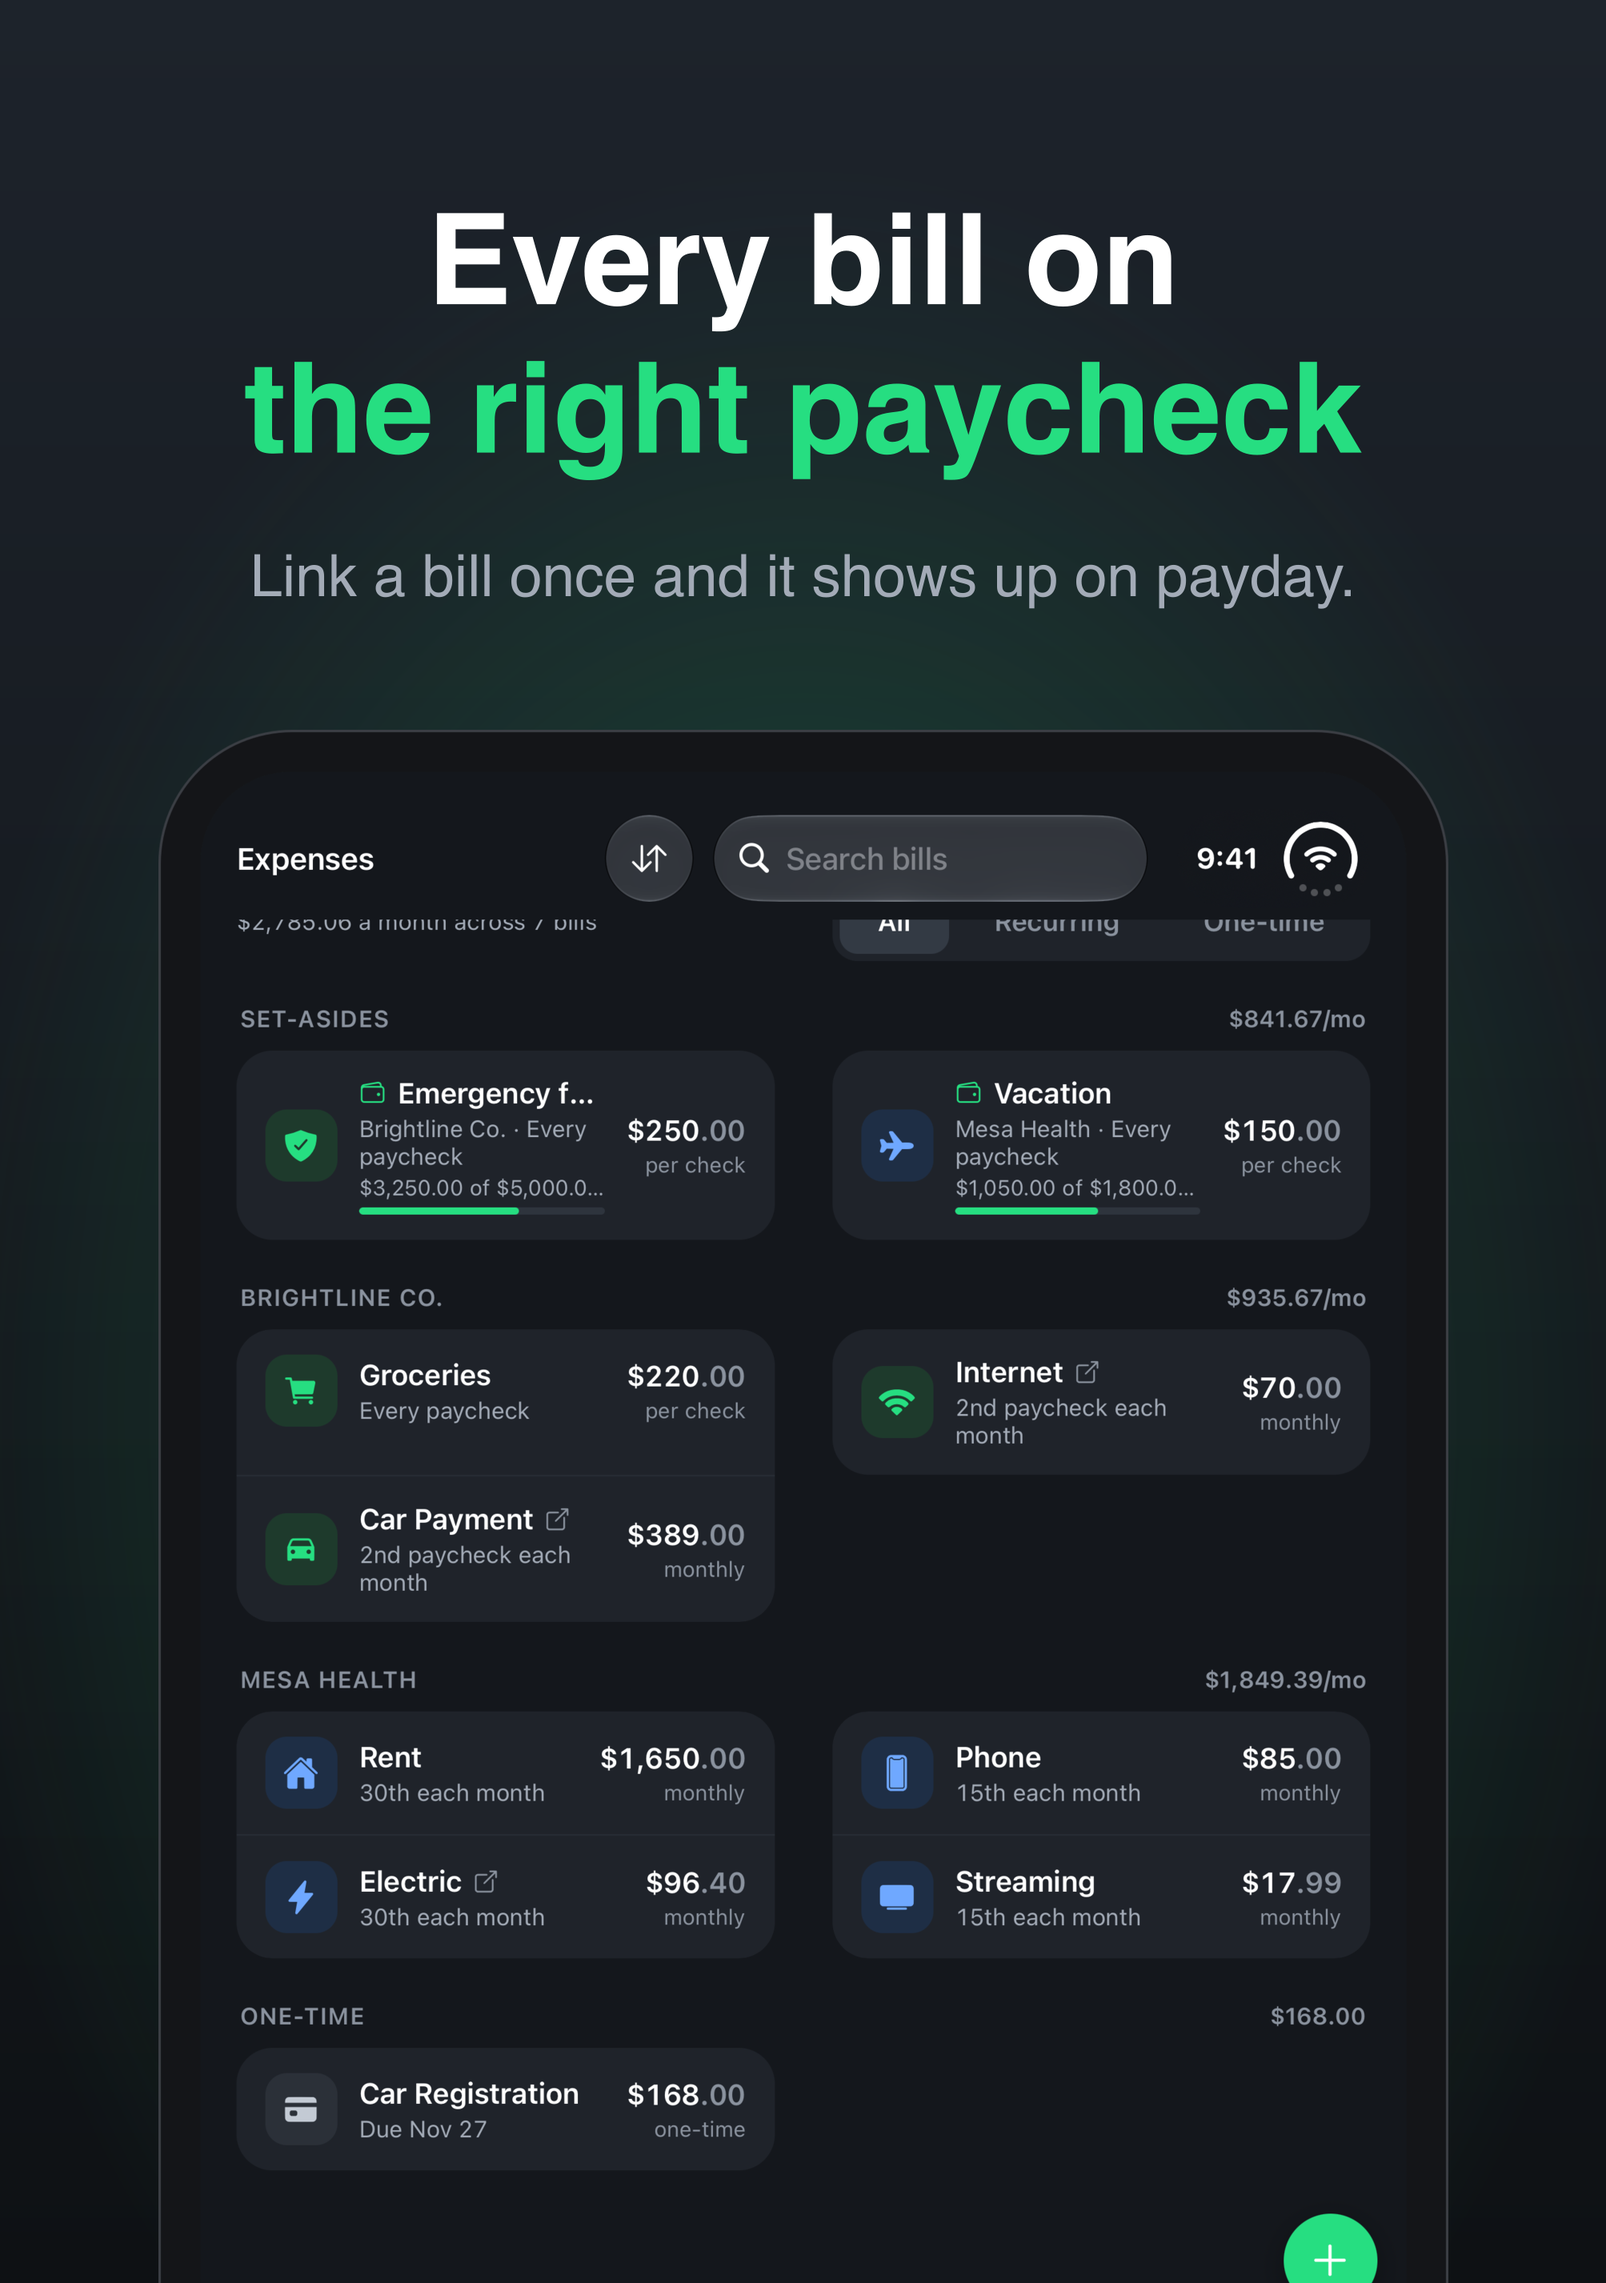
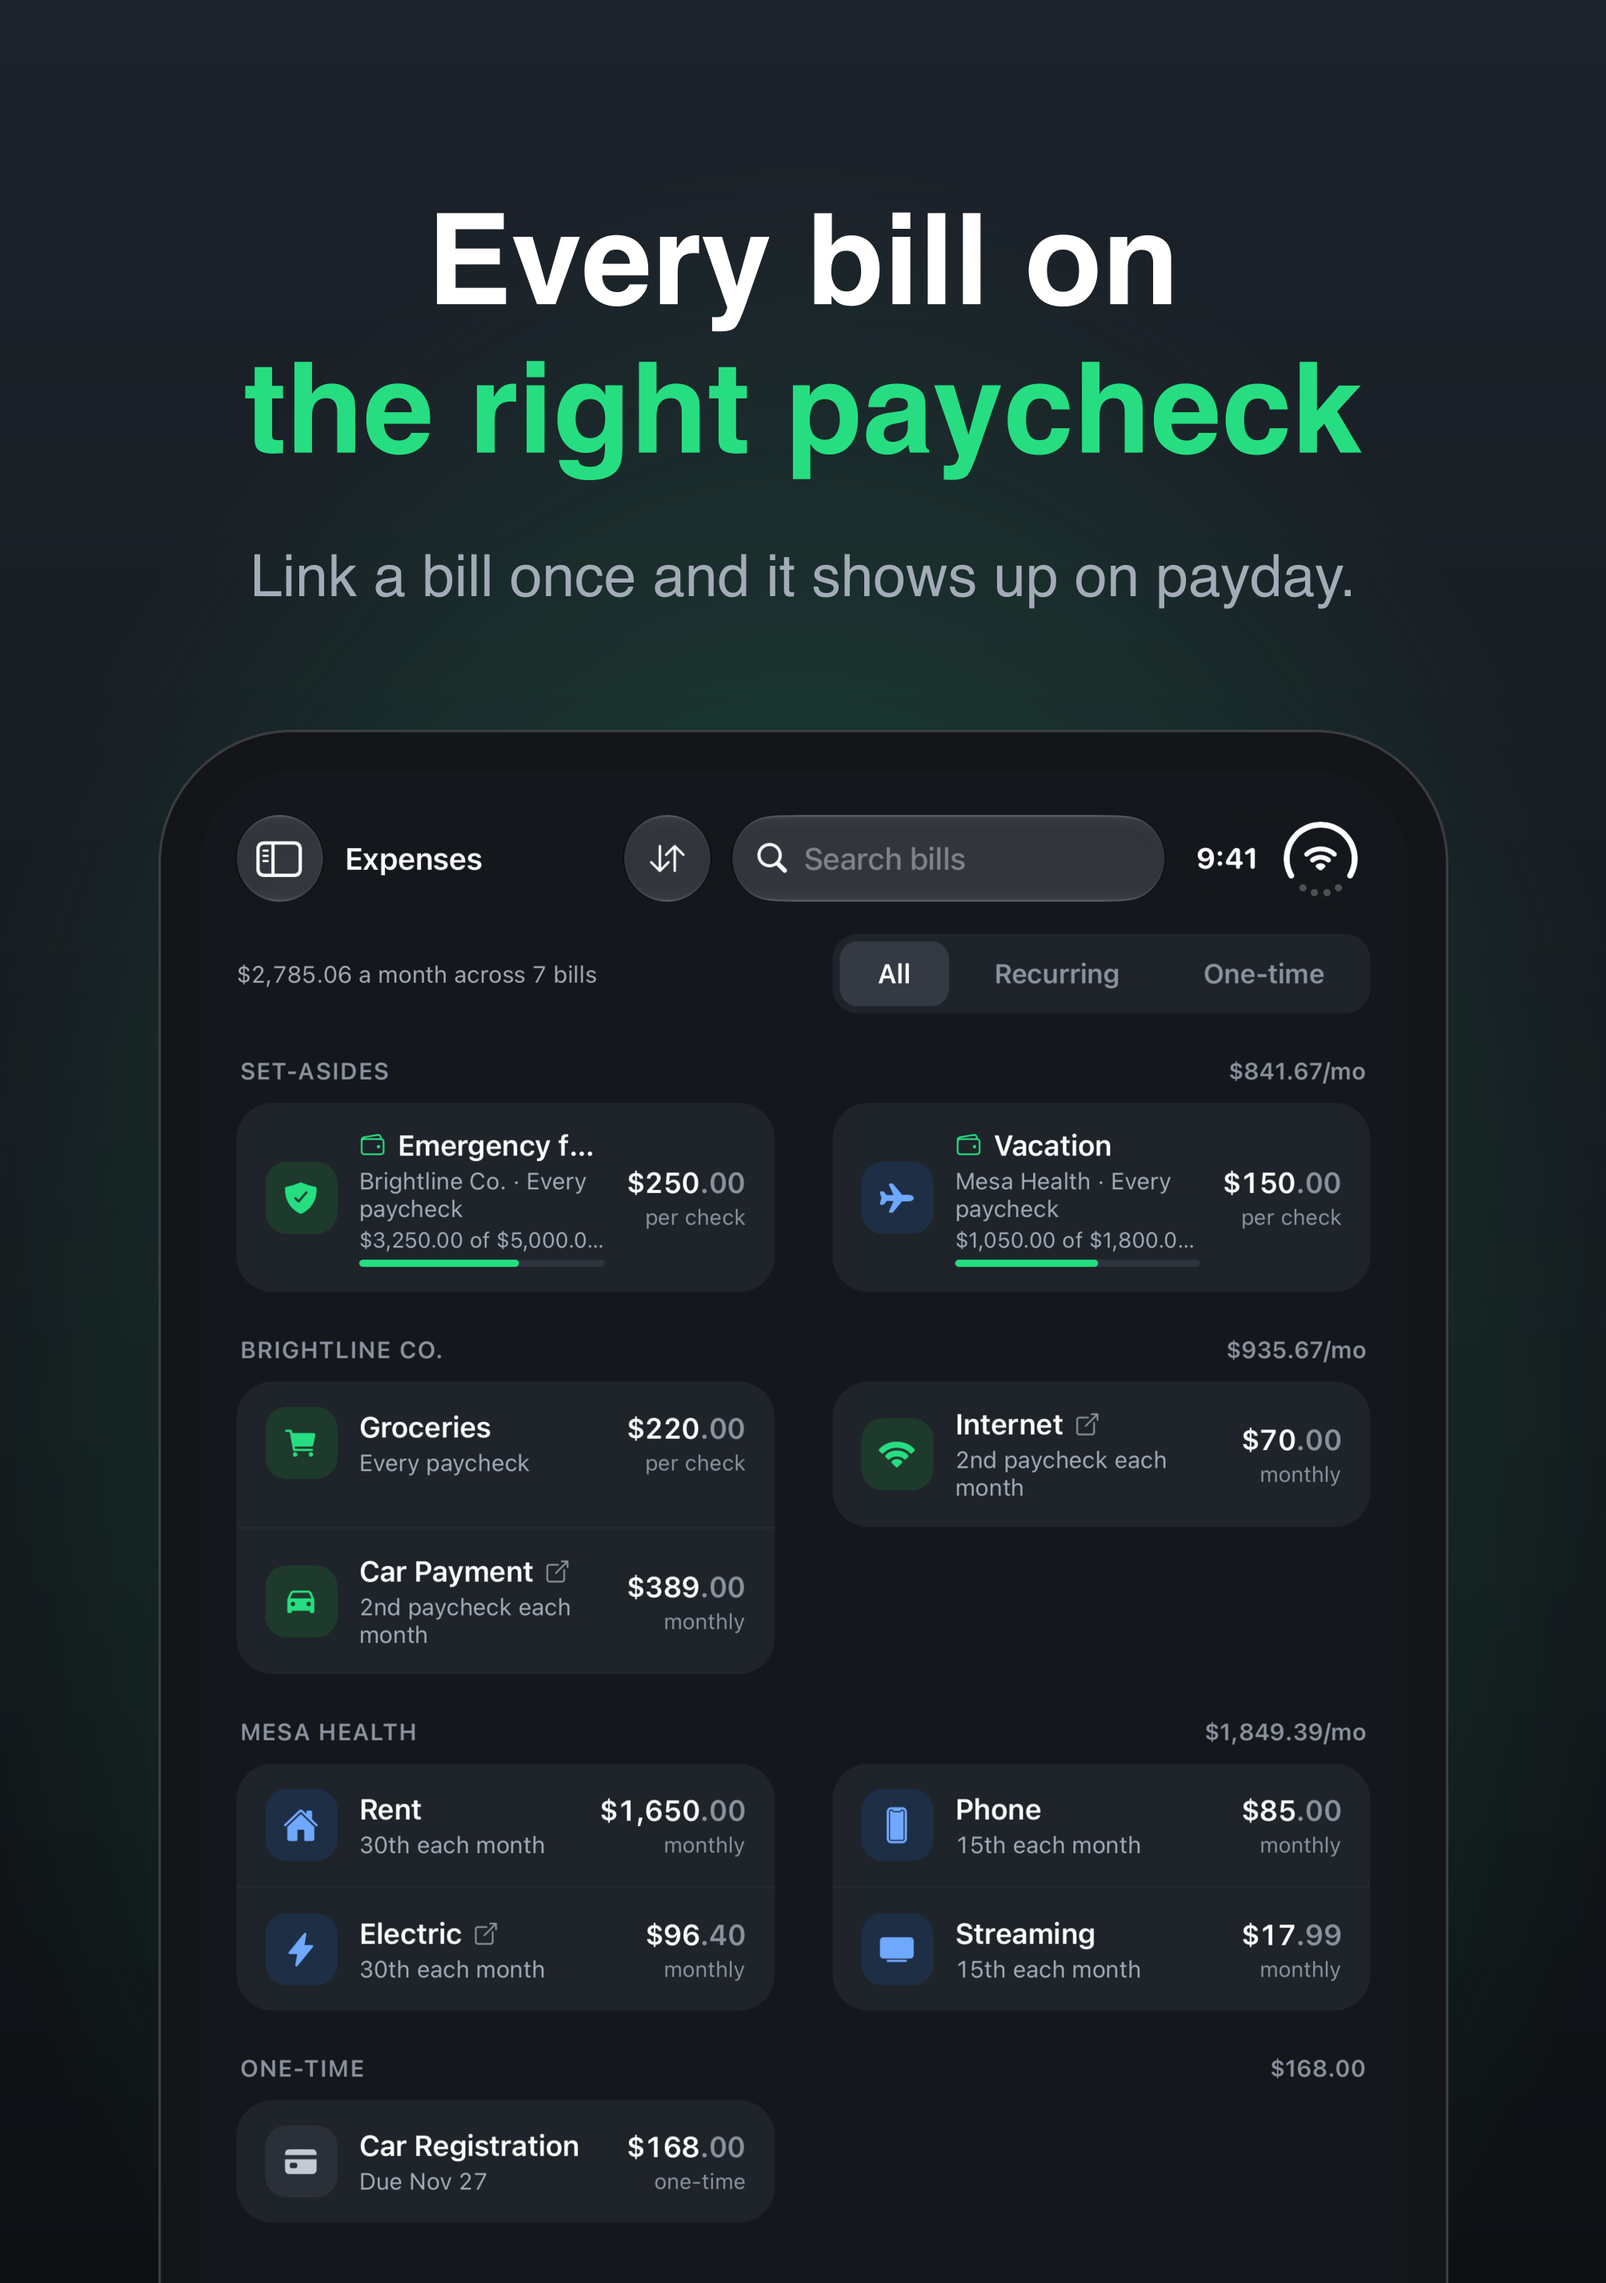
HAU-693: Unfolded Duo Expenses store shot starts at the top of the list

diff --git a/docs/handoff/2026-11-21-HAU-693.md b/docs/handoff/2026-11-21-HAU-693.md
@@ -1,0 +1,19 @@
+# HAU-693 Unfolded Duo Expenses shot: summary and filter cut under the bar
+
+## What changed and why
+- `scripts/duo-screenshots.mjs`: the unfolded "expenses" scene swiped the list up 320 pt before the shot. On the
+  inner screen the whole list nearly fits, so that left the summary line and the All / Recurring / One-time filter
+  half under the bar. The swipe is gone: the shot is the list from its top (same view as the "goals" raw).
+- Same script: `openTab()` opens the sidebar (HAU-695 put the tabs there upright) and taps the tab. The old
+  `tap(/^Expenses$/, "RadioButton")` found nothing since HAU-695, so a fresh capture run failed at that step.
+- Regenerated only `unfolded/framed/en-US/03-expenses.png`, `unfolded/raw/expenses.png`, `unfolded/landscape/expenses.png`.
+
+## Verified
+- Fresh `Duo Runner 1` (iOS 27.1, duoctl v0.2.1, dev build on a demo Metro, port 8096): `bun scripts/duo-screenshots.mjs`
+  ran to the end; 03 read: summary and filter fully visible under the bar. Deleted the Duo afterwards.
+
+## Follow-ups / pitfalls
+- The full run rewrites every Duo image (clock, data drift); only the Expenses ones are committed, others kept as before.
+- The new 03 shows HAU-695's sidebar button and no bottom tab bar; the other unfolded shots are older and still show the
+  bottom bar. Re-capture the rest in one go before the first Duo upload.
+- Folded 03 untouched. The raw "goals" and "expenses" unfolded shots are now the same view.
